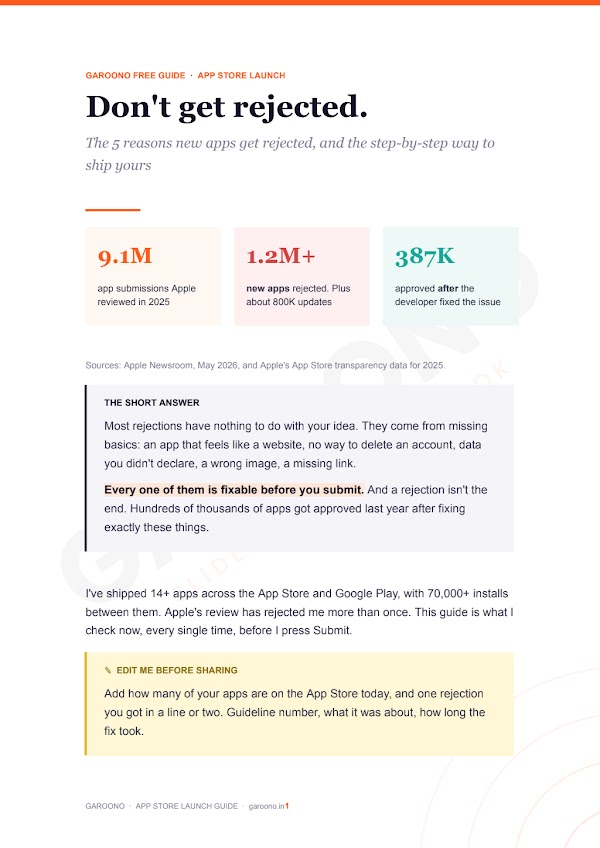
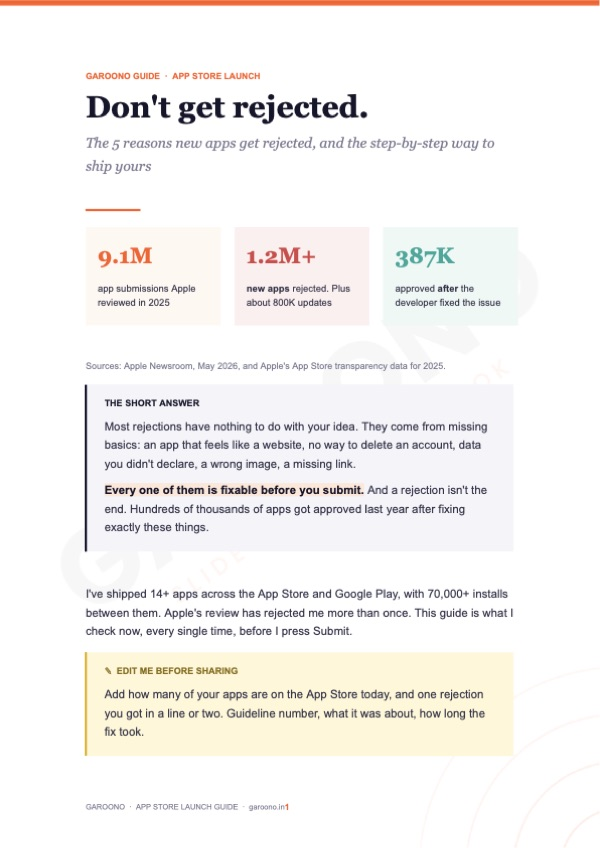
feat: add 10 paid docs and refresh the two free guides
New (private bucket, Pro only): Free Stack to Launch an App, Grow on TikTok,
Stuck at 12 Testers, Will Your App Get Rejected audit, Steal Competitor Keywords,
Failed Payments Win Back, Before You Spend on Ads, 3.9 to 4.7 Stars,
AI App Loses Money, Secure Your Vibe Coded App.

The launch guide and legal checklist now point to their updated Drive files
(no FREE label). Duplicate links in the list were collapsed.

diff --git a/src/data/docs.ts b/src/data/docs.ts
@@ -15,6 +15,76 @@ export type SharedDoc = FreeDoc | PaidDoc;
 
 export const docs: SharedDoc[] = [
   {
+    slug: "free-stack-to-launch-an-app",
+    title: "The Free Stack to Launch an App",
+    blurb: "The tools that cost nothing until you have real users, for a Flutter app and a web app.",
+    free: false,
+    addedOn: "2026-09-30",
+  },
+  {
+    slug: "grow-on-tiktok-playbook",
+    title: "Grow on TikTok: Reach the US From India",
+    blurb: "The setup I use to run a US-facing TikTok account, from warm-up and hooks to turning views into installs.",
+    free: false,
+    addedOn: "2026-09-30",
+  },
+  {
+    slug: "stuck-at-12-testers",
+    title: "Stuck at 12 Testers? Get Play Production Access",
+    blurb: "Get Google Play production access on the first try, with testers who actually test.",
+    free: false,
+    addedOn: "2026-09-30",
+  },
+  {
+    slug: "will-your-app-get-rejected-audit",
+    title: "Will Your App Get Rejected? The 30 Minute Audit",
+    blurb: "36 checks for the App Store and Google Play, with a score that tells you when to submit.",
+    free: false,
+    addedOn: "2026-09-30",
+  },
+  {
+    slug: "steal-competitor-keywords",
+    title: "Steal Your Competitors' Best Keywords",
+    blurb: "ASO from competitor listings, 1-star reviews and real comments, researched with parallel AI chats.",
+    free: false,
+    addedOn: "2026-09-30",
+  },
+  {
+    slug: "failed-payments-win-back",
+    title: "They Didn't Cancel. Their Card Did.",
+    blurb: "Win back the subscribers you lose to failed payments without noticing.",
+    free: false,
+    addedOn: "2026-09-30",
+  },
+  {
+    slug: "before-you-spend-on-ads",
+    title: "Don't Spend on Ads Until You Read This",
+    blurb: "Apple Ads, the break-even math, and when paid installs actually pay you back.",
+    free: false,
+    addedOn: "2026-09-30",
+  },
+  {
+    slug: "app-rating-3-9-to-4-7",
+    title: "From 3.9 to 4.7 Stars",
+    blurb: "Ask for reviews at the right moment, fix what 1-star reviews say, and reply like a human.",
+    free: false,
+    addedOn: "2026-09-30",
+  },
+  {
+    slug: "ai-app-loses-money",
+    title: "Your AI App Might Lose Money on Every User",
+    blurb: "Price and build AI features so your heaviest users don't eat your profit.",
+    free: false,
+    addedOn: "2026-09-30",
+  },
+  {
+    slug: "secure-your-vibe-coded-app",
+    title: "Your AI-Built App Is Leaking",
+    blurb: "Find the 8 holes AI leaves in Flutter and Firebase apps, before someone else does.",
+    free: false,
+    addedOn: "2026-09-30",
+  },
+  {
     slug: "zero-budget-ways-to-get-users",
     title: "15 Zero Budget Ways to Get Users",
     blurb: "The channels that actually work for an indie app, ranked honestly.",
@@ -55,7 +125,7 @@ export const docs: SharedDoc[] = [
     title: "Before You Submit: Legal Checklist",
     blurb: "The 7 things stores check before approving an AI-built app, with prompts for each.",
     free: true,
-    driveId: "1LG6h_kcYRMKfHjE_92_Ra-2Km6xlBqQA",
+    driveId: "1yf42ZgUjGZg-P9G6Hdg0MdPoCe93XEii",
     addedOn: "2026-09-24",
   },
   {
@@ -63,7 +133,7 @@ export const docs: SharedDoc[] = [
     title: "Don't Get Rejected: App Store Launch Guide",
     blurb: "The 5 reasons new apps get rejected, and the step-by-step way to ship yours.",
     free: true,
-    driveId: "1ld5N1IWFYxdPeezwtxb3CLPZON9THdfN",
+    driveId: "1sKFieTsoMu1QBxT1ImTUE8VRqmV8DSbj",
     addedOn: "2026-09-23",
   },
 ];

diff --git a/content/blog/_topics.md b/content/blog/_topics.md
@@ -10,7 +10,7 @@ Keywords are long tail, high intent searches from indie developers. Add new rows
 | done: android-developer-verification-for-indie-developers | android developer verification for indie developers | Sept 30, 2026 start, 2027 global rollout, India documents | app-store-launch-guide |
 | todo | google play billdesk kyc verification | RBI rule, 15 March 2027 deadline for existing merchants, international sales pause | legal-checklist-before-you-submit |
 | todo | app store third party ai consent screen | guideline 5.1.2(i) change of Nov 2025 and a consent screen that passes review | legal-checklist-before-you-submit |
-| todo | google play 12 testers 14 days requirement | how solo devs pass closed testing | app-store-launch-guide |
+| todo | google play 12 testers 14 days requirement | how solo devs pass closed testing | stuck-at-12-testers |
 | todo | app store keyword research for indie developers | free method from 1 and 2 star reviews | app-seo-playbook |
 | todo | app rejected guideline 4.2 minimum functionality | what triggers it and how to fix before submitting | app-store-launch-guide |
 | todo | privacy policy for app store submission | what Apple and Google actually check | legal-checklist-before-you-submit |

diff --git a/content/blog/supabase-rls-checklist-for-vibe-coded-apps.md b/content/blog/supabase-rls-checklist-for-vibe-coded-apps.md
@@ -4,7 +4,7 @@ description: Researchers found 16,326 Supabase databases with readable tables, h
 date: 2026-09-30
 keyword: supabase rls checklist for vibe coded apps
 tags: [supabase, app security, vibe coding]
-relatedDoc: 20-security-checks-before-launch
+relatedDoc: secure-your-vibe-coded-app
 ---
 
 Your AI agent built the app in a weekend
@@ -160,4 +160,4 @@ So the Firebase version of this checklist is: no test mode rules in production, 
 Run steps 1 and 6 tonight, they take ten minutes and catch most leaks
 Then work through the rest before your next release
 
-I keep a longer launch checklist with 20 security checks, including the Firebase side, in the docs
+I put the 8 holes AI most often leaves in Flutter and Firebase apps into one doc, with the fix for each
